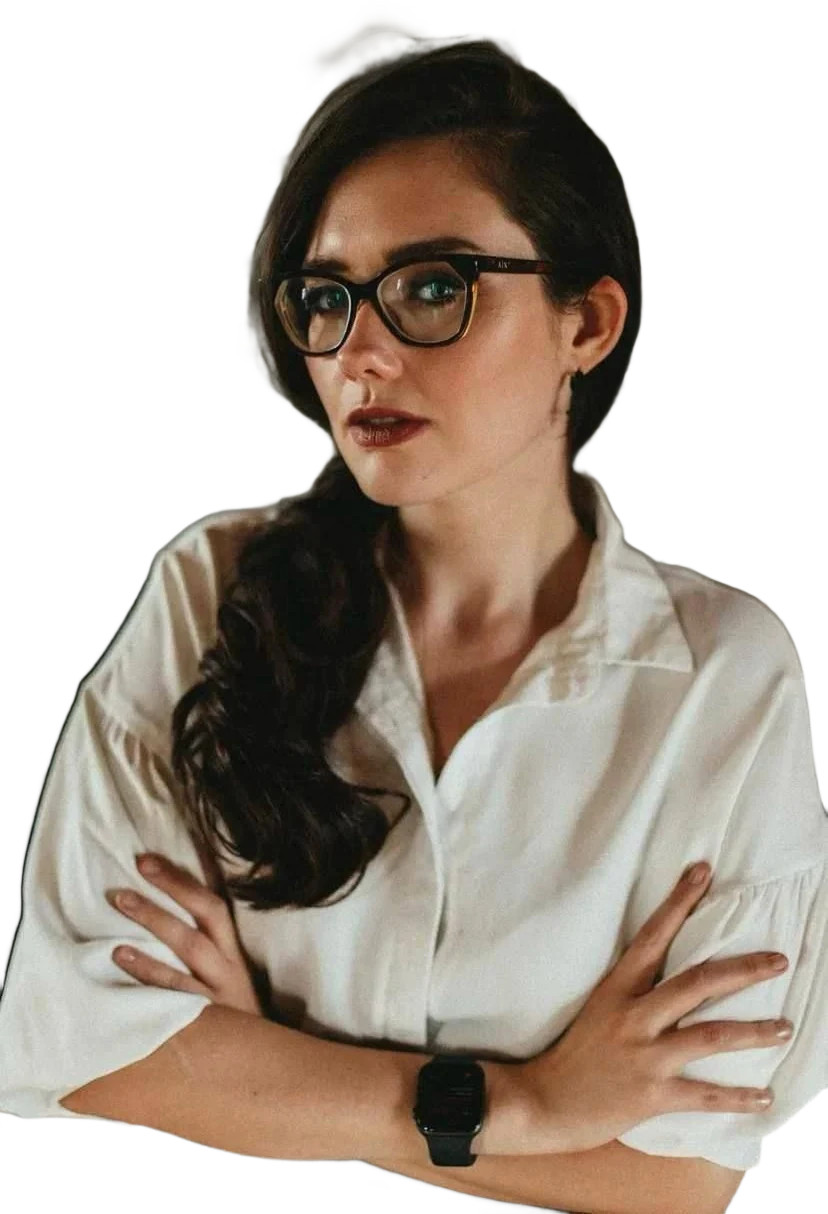
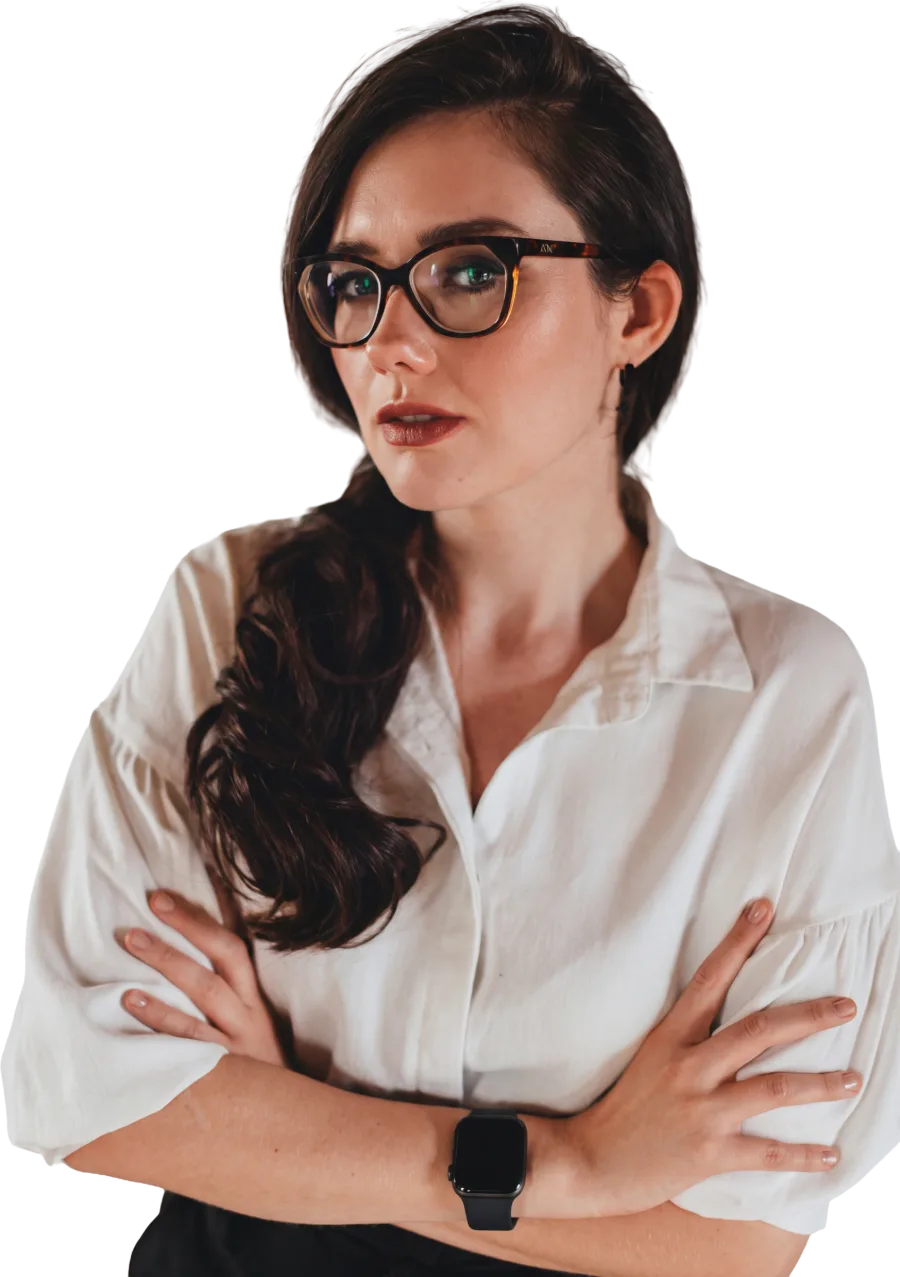
Студенческая конференция 2.0: фото Ярославы и Ионы, тёмные «Эксперты», правки программы
- Ярослава Саранчева и Иона Гусаченко с настоящими фото; в кружках программы отдельный кадр по лицу.
- «Эксперты» на тёмном фоне, как программа; слово «эксперты» во всю ширину цветом подложки вкладок.
- Заголовок первого экрана: «…в первую консультацию».
- Программа: отступ от спикеров, вкладки треков на всю ширину на всех экранах,
  неактивные с тонкой белой обводкой; закрыта щель на стыке блоков.
- Из партнёров убраны «Сад» и «ТПО АСТ», ленты по 7 клеток.

diff --git a/student-conference-scroll/styles.css b/student-conference-scroll/styles.css
@@ -1186,7 +1186,8 @@ body { margin: 0; background: var(--page, #f5f5f5); }
    Десктоп: экран целиком — фото по центру, имя слева, доклады справа; под спикером маленькие вкладки
    и лента фото-портретов, которая лежит поверх низа сцены, как на YoungCon.
    ========================================================================= */
-.sc-speakers { position: relative; z-index: 1; overflow: clip; background: var(--lavender-soft); }
+/* Тёмный фон, как у программы ниже: два блока читаются одним тёмным разделом */
+.sc-speakers { position: relative; z-index: 1; overflow: clip; background: var(--aubergine); }
 /* Низ блока плавно темнеет до тёмного фиолетового — следующий тёмный блок продолжает фон без шва */
 /* Затемнение начинается сразу под карточками спикеров (они и точки лежат поверх него) и плавно уходит в тёмный */
 .sc-speakers::after {
@@ -1194,20 +1195,22 @@ body { margin: 0; background: var(--page, #f5f5f5); }
   position: relative;
   z-index: 0;
   display: block;
-  height: 15rem;
+  /* Фон блока уже тёмный, поэтому переход ничего не добавляет снизу: высота равна заходу вверх */
+  height: 7rem;
   margin-top: -7rem;
   background: linear-gradient(rgb(43 35 52 / 0%), rgb(43 35 52 / 10%) 18%, rgb(43 35 52 / 40%) 40%, rgb(43 35 52 / 78%) 66%, var(--aubergine) 90%);
   pointer-events: none;
 }
-/* Огромное слово на фоне — только украшение, заголовок для скринридера спрятан отдельно */
+/* Огромное слово на фоне — только украшение, заголовок для скринридера спрятан отдельно.
+   Цвет — как подложка неактивных вкладок программы: чуть светлее тёмного фона */
 .sc-speakers_watermark {
   position: absolute;
   top: 13rem;
   left: 50%;
   z-index: 0;
-  color: var(--lavender);
-  /* Слово целиком помещается в ширину экрана */
-  font: 800 19vw/0.8 var(--font-display);
+  color: rgb(62 55 70); /* = белый 9% поверх тёмного фона, как подложка вкладок программы */
+  /* Слово во всю ширину экрана, почти от края до края */
+  font: 800 21.5vw/0.8 var(--font-display);
   letter-spacing: -0.05em;
   white-space: nowrap;
   pointer-events: none;
@@ -1288,7 +1291,7 @@ body { margin: 0; background: var(--page, #f5f5f5); }
 .sc-speaker_tags li { padding: 0.5rem 0.875rem; border-radius: 999px; background: var(--white); color: var(--text); font-weight: 500; font-size: 0.875rem; line-height: 1.1; }
 .sc-speaker_tags li:nth-child(2) { margin-left: 1.5rem; }
 .sc-speakers_dots { display: flex; justify-content: center; gap: 0.25rem; margin-top: 1rem; }
-.sc-speakers_dots .sc-pains_dot::before { background: rgb(124 92 219 / 25%); }
+.sc-speakers_dots .sc-pains_dot::before { background: rgb(255 255 255 / 22%); }
 .sc-speakers_dots .sc-pains_dot[aria-pressed="true"]::before { background: var(--violet); }
 
 /* Лента портретов — только на десктопе */
@@ -1309,7 +1312,7 @@ body { margin: 0; background: var(--page, #f5f5f5); }
   .sc-speakers { display: grid; grid-template-columns: minmax(0, 1fr); grid-template-rows: minmax(0, 1fr) auto auto; height: 100svh; min-height: 50rem; padding: 0; }
   /* Сцена во весь экран: по якорю встаёт ровно в экран, плашка навигации ложится на её пустой верх */
   .sc-page .sc-speakers { scroll-margin-top: 0; }
-  .sc-speakers_watermark { top: clamp(5rem, 11vh, 8rem); font-size: min(19vw, 22rem); }
+  .sc-speakers_watermark { top: clamp(5rem, 11vh, 8rem); }
 
   /* Сцена занимает весь экран, вкладки и лента — поверх её низа */
   /* z-index: auto — затемнение низа ложится только на фото, а карточки и чипы остаются над ним */
@@ -1353,8 +1356,9 @@ body { margin: 0; background: var(--page, #f5f5f5); }
     );
     pointer-events: none;
   }
-  /* Вкладки стоят в самом начале затемнения, поэтому они плотные, как пилюли навигации */
-  .sc-track { background: var(--aubergine); color: var(--white); }
+  /* Вкладки на тёмном фоне — с той же подложкой, что вкладки программы, но непрозрачной:
+     они лежат поверх низа фото, и полупрозрачная подложка его просвечивала */
+  .sc-track { background: rgb(62 55 70); color: var(--white); }
   .sc-track[aria-pressed="true"] { background: var(--violet); color: var(--white); }
   .sc-speakers_bar { grid-row: 2; grid-column: 1; padding: 0; }
   .sc-speakers_bar-inner { position: relative; }
@@ -1390,7 +1394,7 @@ body { margin: 0; background: var(--page, #f5f5f5); }
   .sc-track[aria-pressed="false"]:hover { background: var(--lavender); }
 }
 @media (hover: hover) and (pointer: fine) and (min-width: 64.0625rem) {
-  .sc-track[aria-pressed="false"]:hover { background: var(--violet-deep); }
+  .sc-track[aria-pressed="false"]:hover { background: rgb(77 70 84); }
   .sc-face[aria-pressed="false"]:hover { color: rgb(230 229 235 / 85%); }
   .sc-face[aria-pressed="false"]:hover img { filter: brightness(0.85) saturate(0.9); translate: 0 -0.25rem; }
 }
@@ -1401,7 +1405,9 @@ body { margin: 0; background: var(--page, #f5f5f5); }
    data-view="a|b|c" — выбранный трек: его доклады плюс общие для всех треков
    открытие, хедлайнер, финал и перерывы — они одинаковые на каждой вкладке.
    ========================================================================= */
-.sc-program { position: relative; z-index: 1; padding-block: 3rem 5rem; background: var(--aubergine); color: var(--on-dark); }
+/* Сверху — отступ от ленты спикеров: оба блока тёмные, без него программа прилипает к «Экспертам» */
+.sc-program { position: relative; z-index: 1; padding-block: 5rem 5rem; background: var(--aubergine); color: var(--on-dark); box-shadow: 0 -2px 0 var(--aubergine); }
+/* Тень вверх закрывает щель в долю пикселя на стыке со «Экспертами»: иначе на телефоне просвечивает светлый фон страницы */
 .sc-program_head { display: grid; gap: 1rem; justify-items: start; }
 .sc-program_title { color: var(--white); font: 800 clamp(2.75rem, 13vw, 4rem)/0.98 var(--font-display); letter-spacing: -0.03em; }
 /* Дата рядом с заголовком: от руки, чуть наклонена — как пометка на полях */
@@ -1412,34 +1418,29 @@ body { margin: 0; background: var(--page, #f5f5f5); }
 .sc-program_lead { max-width: 36rem; color: var(--lavender); font: 600 clamp(1.25rem, 5.4vw, 1.5rem)/1.2 var(--font-display); letter-spacing: -0.015em; text-wrap: balance; }
 
 /* ---------- Вкладки — как кнопки навигации в шапке: отдельные плашки без обводки, выбранная белая ---------- */
-.sc-program_tabs {
-  display: flex;
-  gap: 0.375rem;
-  margin: 2.25rem calc(var(--page-padding) * -1) 0;
-  padding: 0 var(--page-padding);
-  overflow-x: auto;
-  scrollbar-width: none;
-}
-.sc-program_tabs::-webkit-scrollbar { display: none; }
+/* Три вкладки на всю ширину контейнера на любом экране. На телефоне названия переносятся в две строки */
+.sc-program_tabs { display: grid; grid-template-columns: repeat(3, minmax(0, 1fr)); gap: 0.375rem; margin: 2.25rem 0 0; }
+/* Неактивная — прозрачная с тонкой белой обводкой (обводка тенью внутрь: размер вкладки не меняется) */
 .sc-program_tab {
-  flex: none;
   display: grid;
   align-content: center;
-  justify-items: start;
+  justify-items: center;
   gap: 0.25rem;
-  min-height: 3.5rem;
-  padding: 0.5rem 1rem;
+  min-width: 0;
+  min-height: 3.75rem;
+  padding: 0.5rem;
   border: 0;
   border-radius: 0.75rem;
-  background: rgb(255 255 255 / 9%);
+  background: transparent;
+  box-shadow: inset 0 0 0 1px rgb(255 255 255 / 60%);
   color: var(--white);
-  text-align: left;
+  text-align: center;
   cursor: pointer;
-  transition: background-color var(--dur) var(--ease), color var(--dur) var(--ease);
+  transition: background-color var(--dur) var(--ease), color var(--dur) var(--ease), box-shadow var(--dur) var(--ease);
 }
 .sc-program_tab-code { color: rgb(255 255 255 / 55%); font: 500 0.75rem/1.1 var(--font-text); transition: color var(--dur) var(--ease); }
-.sc-program_tab-name { font: 500 0.9375rem/1.1 var(--font-text); letter-spacing: -0.02em; white-space: nowrap; }
-.sc-program_tab[aria-selected="true"] { background: var(--white); color: var(--text); }
+.sc-program_tab-name { font: 500 0.9375rem/1.1 var(--font-text); letter-spacing: -0.02em; text-wrap: balance; }
+.sc-program_tab[aria-selected="true"] { background: var(--white); box-shadow: inset 0 0 0 1px var(--white); color: var(--text); }
 .sc-program_tab[aria-selected="true"] .sc-program_tab-code { color: var(--text-2); }
 
 /* Кому подходит выбранная вкладка: видна только своя строка */
@@ -1476,6 +1477,8 @@ body { margin: 0; background: var(--page, #f5f5f5); }
 /* Кружок показывает голову и плечи: картинка крупнее кружка и прижата к его верху */
 .sc-who_photo { flex: none; display: block; width: 3rem; height: 3rem; overflow: hidden; border-radius: 50%; background: var(--lavender); transition: scale var(--dur) var(--ease); }
 .sc-who_photo img { display: block; width: 150%; max-width: none; height: auto; margin: 6% 0 0 -25%; }
+/* Фото, заранее обрезанное квадратом по лицу, — целиком, без увеличения и сдвига */
+.sc-who_photo.is-face img { width: 100%; margin: 0; }
 .sc-who_text { display: grid; gap: 0.125rem; }
 .sc-who_name { color: var(--text); font: 600 0.9375rem/1.2 var(--font-display); transition: color var(--dur) var(--ease); }
 .sc-who_role { color: var(--text-2); font-size: 0.8125rem; line-height: 1.3; text-wrap: pretty; }
@@ -1495,10 +1498,11 @@ body { margin: 0; background: var(--page, #f5f5f5); }
 
 /* ---------- Планшет ---------- */
 @media (min-width: 48.0625rem) {
-  .sc-program { padding-block: 4rem 6rem; }
+  .sc-program { padding-block: 6.5rem 6rem; }
   .sc-program_title { font-size: clamp(3.75rem, 8vw, 5rem); }
   .sc-program_lead { font-size: 1.75rem; }
-  .sc-program_tabs { margin: 2.75rem 0 0; padding: 0; overflow: visible; flex-wrap: wrap; }
+  .sc-program_tabs { margin-top: 2.75rem; }
+  .sc-program_tab { padding-inline: 1rem; }
   .sc-program_tab-name { font-size: 1rem; letter-spacing: -0.03em; }
   .sc-program_audience { margin-top: 2rem; font-size: 1.0625rem; }
 
@@ -1515,7 +1519,7 @@ body { margin: 0; background: var(--page, #f5f5f5); }
 
 /* ---------- Десктоп ---------- */
 @media (min-width: 64.0625rem) {
-  .sc-program { padding-block: clamp(2.5rem, 5vh, 4.5rem) 7rem; }
+  .sc-program { padding-block: clamp(6rem, 11vh, 8.5rem) 7rem; }
   .sc-program_title { font-size: clamp(4rem, 5.6vw, 6rem); }
   .sc-program_date { padding-bottom: 0.375rem; }
   .sc-program_date time { font-size: clamp(2.75rem, 3.4vw, 3.5rem); }
@@ -1523,8 +1527,8 @@ body { margin: 0; background: var(--page, #f5f5f5); }
   .sc-program_lead { max-width: 52rem; font-size: clamp(1.75rem, 2.1vw, 2.125rem); }
 
   /* Три вкладки на всю ширину, подписи по центру */
-  .sc-program_tabs { display: grid; grid-template-columns: repeat(3, minmax(0, 1fr)); margin-top: 3.25rem; }
-  .sc-program_tab { justify-items: center; min-height: 4rem; padding: 0.625rem 1rem; text-align: center; }
+  .sc-program_tabs { margin-top: 3.25rem; }
+  .sc-program_tab { min-height: 4rem; padding: 0.625rem 1rem; }
   .sc-program_tab-code { font-size: 0.8125rem; }
   .sc-program_tab-name { font-size: 1.125rem; }
   .sc-program_audience { margin-top: 2.25rem; font-size: 1.1875rem; }
@@ -1552,7 +1556,7 @@ body { margin: 0; background: var(--page, #f5f5f5); }
 }
 
 @media (hover: hover) and (pointer: fine) {
-  .sc-program_tab[aria-selected="false"]:hover { background: rgb(255 255 255 / 16%); }
+  .sc-program_tab[aria-selected="false"]:hover { background: rgb(255 255 255 / 9%); box-shadow: inset 0 0 0 1px var(--white); }
   .sc-who:hover .sc-who_name { color: var(--violet-deep); }
   .sc-who:hover .sc-who_photo { scale: 1.06; }
 }

diff --git a/student-conference-scroll/index.html b/student-conference-scroll/index.html
@@ -139,7 +139,7 @@
               <span class="sc-hero_line" data-sc-hero-line>Как превратить</span>
               <span class="sc-hero_line" data-sc-hero-line><span class="sc-loop is-pencil" data-sc-loop>знания из&nbsp;вуза<svg class="sc-loop_svg" viewBox="0 0 400 120" preserveAspectRatio="none" aria-hidden="true"><g filter="url(#sc-pencil)"><path d="M30 64C34 30 120 12 214 13c92 1 173 18 175 52 2 34-84 47-188 46C99 110 13 98 10 66c-2-26 54-44 133-49" /><path class="sc-loop_second" d="M22 72C16 42 104 20 206 19c98-1 176 15 180 50 3 26-30 40-64 45" /></g></svg></span></span>
               <span class="sc-hero_line" data-sc-hero-line>в&nbsp;<span class="sc-mark is-underline" data-sc-mark><svg class="sc-mark_line" viewBox="0 0 400 40" preserveAspectRatio="none" aria-hidden="true"><g filter="url(#sc-pencil)"><path d="M3 21C70 15 150 24 235 18S355 11 397 19C370 24 330 27 300 30"/><path class="is-second" d="M18 28C120 21 255 31 382 22"/></g></svg>первую</span></span>
-              <span class="sc-hero_line" data-sc-hero-line><span class="sc-mark is-underline" data-sc-mark><svg class="sc-mark_line" viewBox="0 0 400 40" preserveAspectRatio="none" aria-hidden="true"><g filter="url(#sc-pencil)"><path d="M2 15C90 23 170 13 260 20S360 25 398 14C372 22 346 26 318 27"/><path class="is-second" d="M14 22C130 28 250 18 384 24"/></g></svg>практику</span></span>
+              <span class="sc-hero_line" data-sc-hero-line><span class="sc-mark is-underline" data-sc-mark><svg class="sc-mark_line" viewBox="0 0 400 40" preserveAspectRatio="none" aria-hidden="true"><g filter="url(#sc-pencil)"><path d="M2 15C90 23 170 13 260 20S360 25 398 14C372 22 346 26 318 27"/><path class="is-second" d="M14 22C130 28 250 18 384 24"/></g></svg>консультацию</span></span>
             </h1>
             <p class="sc-hero_meta" data-sc-hero-fade>21&nbsp;ноября · суббота · онлайн</p>
             <p class="sc-hero_lead" data-sc-hero-fade>Конференция АСП для&nbsp;студентов старших курсов и&nbsp;выпускников: где работать после вуза, какой метод выбрать, как найти первых клиентов и&nbsp;как прийти в&nbsp;психологию из&nbsp;другой профессии.</p>
@@ -614,7 +614,7 @@
     <div class="padding-global sc-speakers_stage">
       <div class="container-xlarge sc-speakers_scene" data-sc-speakers-scene>
         <article class="sc-speaker is-active" id="speaker-iona" data-track="hall" aria-labelledby="speaker-iona-name">
-          <img class="sc-speaker_photo" src="assets/iona-cut.webp" width="828" height="1214" alt="Иона Гусаченко" decoding="async" draggable="false">
+          <img class="sc-speaker_photo" src="assets/iona-cut.webp" width="900" height="1277" alt="Иона Гусаченко" decoding="async" draggable="false">
           <div class="sc-speaker_card">
             <h3 class="sc-speaker_name" id="speaker-iona-name">Иона Гусаченко</h3>
             <p class="sc-speaker_role">Клинический психолог, КПТ- и&nbsp;схема-терапевт, директор по&nbsp;развитию АСП</p>
@@ -636,8 +636,8 @@
           </div>
           <ul class="sc-speaker_tags" role="list"><li>КПТ</li><li>АСТ</li></ul>
         </article>
-        <article class="sc-speaker is-silhouette" id="speaker-saranceva" data-track="hall" aria-labelledby="speaker-saranceva-name" hidden>
-          <img class="sc-speaker_photo" src="assets/silhouette-5.webp" width="705" height="1000" alt="" loading="lazy" decoding="async" draggable="false">
+        <article class="sc-speaker" id="speaker-saranceva" data-track="hall" aria-labelledby="speaker-saranceva-name" hidden>
+          <img class="sc-speaker_photo" src="assets/saranceva-cut.webp" width="900" height="1158" alt="Ярослава Саранчева" loading="lazy" decoding="async" draggable="false">
           <div class="sc-speaker_card">
             <h3 class="sc-speaker_name" id="speaker-saranceva-name">Ярослава Саранчева</h3>
             <p class="sc-speaker_role">Подробности добавим позже</p>
@@ -789,9 +789,9 @@
     <div class="padding-global sc-speakers_strip">
       <div class="container-xlarge">
         <ul class="sc-faces" role="list" data-sc-faces>
-        <li data-track="hall"><button class="sc-face" type="button" aria-pressed="true" aria-controls="speaker-iona" data-sc-face="iona"><img src="assets/iona-cut.webp" width="828" height="1214" alt="" loading="lazy" decoding="async" draggable="false"><span class="sc-face_name">Иона</span></button></li>
+        <li data-track="hall"><button class="sc-face" type="button" aria-pressed="true" aria-controls="speaker-iona" data-sc-face="iona"><img src="assets/iona-cut.webp" width="900" height="1277" alt="" loading="lazy" decoding="async" draggable="false"><span class="sc-face_name">Иона</span></button></li>
         <li data-track="hall"><button class="sc-face" type="button" aria-pressed="false" aria-controls="speaker-batischeva" data-sc-face="batischeva"><img src="assets/batischeva-cut.webp" width="805" height="968" alt="" loading="lazy" decoding="async" draggable="false"><span class="sc-face_name">Дарья</span><span class="sc-face_time">10:20</span></button></li>
-        <li data-track="hall"><button class="sc-face is-silhouette" type="button" aria-pressed="false" aria-controls="speaker-saranceva" data-sc-face="saranceva"><img src="assets/silhouette-5.webp" width="705" height="1000" alt="" loading="lazy" decoding="async" draggable="false"><span class="sc-face_name">Ярослава</span><span class="sc-face_time">14:10</span></button></li>
+        <li data-track="hall"><button class="sc-face" type="button" aria-pressed="false" aria-controls="speaker-saranceva" data-sc-face="saranceva"><img src="assets/saranceva-cut.webp" width="900" height="1158" alt="" loading="lazy" decoding="async" draggable="false"><span class="sc-face_name">Ярослава</span><span class="sc-face_time">14:10</span></button></li>
         <li data-track="hall"><button class="sc-face is-silhouette" type="button" aria-pressed="false" aria-controls="speaker-kochermina" data-sc-face="kochermina"><img src="assets/silhouette-1.webp" width="741" height="1000" alt="" loading="lazy" decoding="async" draggable="false"><span class="sc-face_name">Виктория</span><span class="sc-face_time">14:10</span></button></li>
         <li data-track="a" hidden><button class="sc-face" type="button" aria-pressed="false" aria-controls="speaker-vavilova" data-sc-face="vavilova"><img src="assets/vavilova-cut.webp" width="773" height="1001" alt="" loading="lazy" decoding="async" draggable="false"><span class="sc-face_name">Ксения</span><span class="sc-face_time">11:00</span></button></li>
         <li data-track="a" hidden><button class="sc-face" type="button" aria-pressed="false" aria-controls="speaker-dubchenko" data-sc-face="dubchenko"><img src="assets/dubchenko-cut.webp" width="674" height="919" alt="" loading="lazy" decoding="async" draggable="false"><span class="sc-face_name">Роман</span><span class="sc-face_time">13:30</span></button></li>
@@ -850,7 +850,7 @@
                 <h3 class="sc-item_title">Путь в&nbsp;психологии: с&nbsp;чего начинать в&nbsp;2026</h3>
                 <div class="sc-item_who">
                   <a class="sc-who" href="#experts" data-sc-open-speaker="iona">
-                    <span class="sc-who_photo"><img src="assets/iona-cut.webp" width="828" height="1214" alt="" loading="lazy" decoding="async"></span>
+                    <span class="sc-who_photo is-face"><img src="assets/iona-face.webp" width="400" height="400" alt="" loading="lazy" decoding="async"></span>
                     <span class="sc-who_text"><span class="sc-who_name">Иона Гусаченко</span><span class="sc-who_role">Клинический психолог, директор по&nbsp;развитию АСП</span></span>
                   </a>
                 </div>
@@ -1053,11 +1053,12 @@
                 <p class="sc-item_desc">Плюс специальное предложение для&nbsp;студентов и&nbsp;видеоурок «Как провести первую сессию» для&nbsp;участников.</p>
                 <div class="sc-item_who">
                   <a class="sc-who" href="#experts" data-sc-open-speaker="iona">
-                    <span class="sc-who_photo"><img src="assets/iona-cut.webp" width="828" height="1214" alt="" loading="lazy" decoding="async"></span>
+                    <span class="sc-who_photo is-face"><img src="assets/iona-face.webp" width="400" height="400" alt="" loading="lazy" decoding="async"></span>
                     <span class="sc-who_text"><span class="sc-who_name">Иона Гусаченко</span><span class="sc-who_role">Клинический психолог, директор по&nbsp;развитию АСП</span></span>
                   </a>
                   <a class="sc-who" href="#experts" data-sc-open-speaker="saranceva">
-                    <span class="sc-who_photo"><img src="assets/silhouette-5.webp" width="705" height="1000" alt="" loading="lazy" decoding="async"></span>
+                    <!-- В кружке отдельный квадрат по лицу (is-face): на общем фото есть руки и стол, лицо вышло бы мелким -->
+                    <span class="sc-who_photo is-face"><img src="assets/saranceva-face.webp" width="400" height="400" alt="" loading="lazy" decoding="async"></span>
                     <span class="sc-who_text"><span class="sc-who_name">Ярослава Саранчева</span><span class="sc-who_role">Подробности добавим позже</span></span>
                   </a>
                   <a class="sc-who" href="#experts" data-sc-open-speaker="kochermina">
@@ -1099,16 +1100,15 @@
       </div>
     </div>
     <div class="sc-partners_marquee" data-sc-partners>
-      <!-- В каждой ленте по 8 «клеток»: длинные логотипы (.is-wide) занимают две, остальные — одну.
+      <!-- В каждой ленте по 7 «клеток»: длинные логотипы (.is-wide) занимают две, остальные — одну.
            Если добавляете партнёра, держите клеток в лентах поровну, иначе шахматный порядок собьётся. -->
       <ul class="sc-partners_row" role="list">
         <li class="sc-partner is-wide"><img src="assets/partners/handling.svg" width="265" height="48" alt="Справиться проще" loading="lazy" decoding="async"></li>
         <li class="sc-partner"><img src="assets/partners/frame.svg" width="160" height="42" alt="Фрейм" loading="lazy" decoding="async"></li>
         <li class="sc-partner"><img src="assets/partners/akpn.svg" width="182" height="68" alt="АКПН" loading="lazy" decoding="async"></li>
         <li class="sc-partner"><img src="assets/partners/sun.svg" width="190" height="58" alt="Солнечный город — фонд счастливого детства" loading="lazy" decoding="async"></li>
-        <li class="sc-partner"><img src="assets/partners/sad.svg" width="190" height="64" alt="Сад — экосистема образования и поддержки психологов" loading="lazy" decoding="async"></li>
-        <li class="sc-partner"><img src="assets/partners/tpo.svg" width="108" height="50" alt="ТПО АСТ" loading="lazy" decoding="async"></li>
         <li class="sc-partner"><img src="assets/partners/praxium.svg" width="160" height="42" alt="Praxium — клиника неврологии и психиатрии" loading="lazy" decoding="async"></li>
+        <li class="sc-partner"><img src="assets/partners/mom.svg" width="68" height="71" alt="Душа мамы" loading="lazy" decoding="async"></li>
       </ul>
       <ul class="sc-partners_row is-offset" role="list">
         <li class="sc-partner"><img src="assets/partners/alvi.svg" width="130" height="35" alt="Клиника АЛВИ" loading="lazy" decoding="async"></li>
@@ -1117,7 +1117,6 @@
         <li class="sc-partner"><img src="assets/partners/apdp.svg" width="72" height="77" alt="АПДП" loading="lazy" decoding="async"></li>
         <li class="sc-partner"><img src="assets/partners/sports.svg" width="94" height="76" alt="Sports-talk" loading="lazy" decoding="async"></li>
         <li class="sc-partner"><img src="assets/partners/pover.svg" width="83" height="74" alt="Тебе поверят" loading="lazy" decoding="async"></li>
-        <li class="sc-partner"><img src="assets/partners/mom.svg" width="68" height="71" alt="Душа мамы" loading="lazy" decoding="async"></li>
       </ul>
     </div>
   </section>
